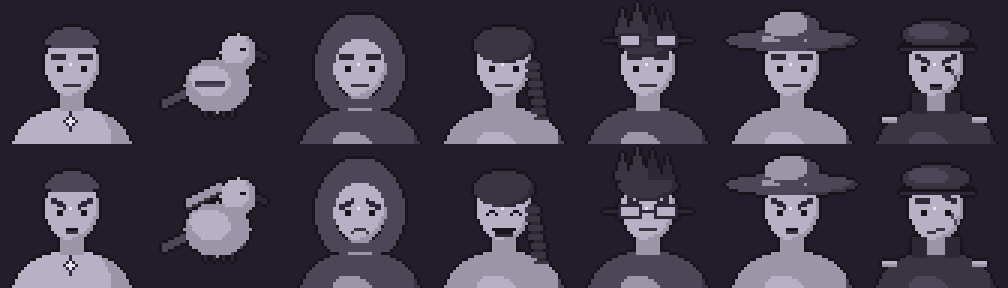
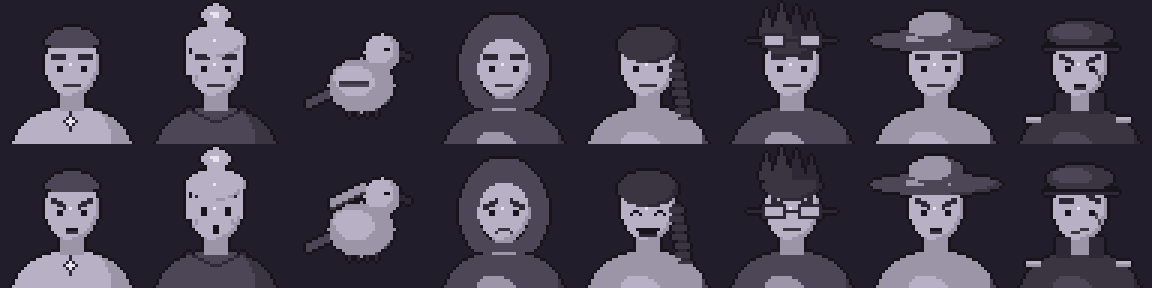
feat(dialogos): Yara en persona y por el ave (enmienda 1)

diff --git a/tools/gen_portraits.py b/tools/gen_portraits.py
@@ -2,14 +2,15 @@
 docs/ux/anexos/2026-10-28-dialogos.md, §3).
 
 Busto de frente, 48×48, sobre fondo ASH_900 (la ventana del retrato dentro del
-panel). Siete voces y **dos expresiones** cada una: la neutra y la que define
+panel). Ocho retratos de siete voces (Yara en persona y por el ave) y **dos expresiones** cada una: la neutra y la que define
 su arco. Como los sprites del grupo, **todo en la rampa de ceniza**: el verde
 es de la purificación y la brasa del daño activo. Lo que distingue a cada uno
 es la **silueta** (lo mismo que en su sprite de combate: capucha, trenza,
 gafas, sombrero) y el valor.
 
     ilan   pelo corto y el Fragmento al cuello · neutral / determinado
-    yara   el ave mensajera (Yara habla por ella) · neutral / alerta
+    yara      en persona: moño, pelo claro, arrugas y chal · neutral / alerta
+    yara_ave  el ave mensajera, cuando habla de lejos · neutral / alerta
     bruma  capucha · neutral / dolida (perdió su hogar en un incendio)
     coral  trenza sobre el hombro · neutral / risa (el alivio cómico)
     nix    pelo revuelto en punta y gafas de taller · neutral / concentrado (gafas puestas)
@@ -74,7 +75,7 @@ def face(c: Canvas, mood: str) -> None:
             c.set(ex, EYE_Y, ink)
             c.set(ex + 1, EYE_Y, ink)
             c.set(ex + 2, EYE_Y + 1, ink)
-        elif mood == "wide":
+        elif mood in ("wide", "alert"):
             for dy in (-1, 0, 1):
                 c.set(ex, EYE_Y + dy, ink)
                 c.set(ex + 1, EYE_Y + dy, ink)
@@ -95,6 +96,8 @@ def face(c: Canvas, mood: str) -> None:
                 y = EYE_Y - 4 - (i // 2 if side > 0 else 0)
             elif mood == "laugh":
                 y = EYE_Y - 4 - (1 if 0 < i < 4 else 0)
+            elif mood == "alert":
+                y = EYE_Y - 6 - (1 if 0 < i < 4 else 0)
             else:
                 y = EYE_Y - 4
             c.set(x, y, brow)
@@ -108,6 +111,12 @@ def face(c: Canvas, mood: str) -> None:
         for x in range(int(CX) - 2, int(CX) + 4):
             c.set(x, my + 1, ink)
             c.set(x, my + 2, color("ash_800"))
+    elif mood == "alert":
+        # Boca entreabierta de sorpresa.
+        for x in range(int(CX), int(CX) + 2):
+            c.set(x, my - 1, ink)
+            c.set(x, my, ink)
+            c.set(x, my + 1, ink)
     elif mood == "frown":
         # Labios apretados: línea corta y gruesa.
         for x in range(int(CX) - 1, int(CX) + 3):
@@ -157,8 +166,31 @@ def ilan(mood: str) -> Canvas:
 
 
 def yara(mood: str) -> Canvas:
-    """El ave mensajera: cuerpo redondo de perfil, pico y cola. Alerta: alas
-    abiertas."""
+    """Yara en persona (enmienda 1, Diego 2026-10-28): anciana, pelo claro
+    recogido en moño, arrugas y chal. Alerta: los ojos muy abiertos."""
+    c = Canvas(SIZE, SIZE)
+    shawl = ["ash_700", "ash_600", "ash_400"]
+    shoulders(c, shawl)
+    face(c, "alert" if mood == "arc" else "neutral")
+    hair = ["ash_400", "ash_200", "ash_050"]
+    fill_ellipse(c, CX, 13.0, 9.8, 5.2, hair, base=0.40)       # pelo recogido
+    fill_ellipse(c, CX, 4.5, 4.6, 3.6, hair, base=0.46)        # moño
+    for side in (-1, 1):                                       # mechones a los lados
+        for y in range(14, 25):
+            c.set(int(CX) + side * 9, y, color("ash_200"))
+    for side in (-1, 1):                                       # arrugas
+        for i in range(3):
+            c.set(int(CX) + side * (6 + i // 2), 25 + i, color("ash_400"))
+    # El chal cruzado sobre el pecho.
+    for i in range(10):
+        c.set(int(CX) - 9 + i, 36 + i // 2, color("ash_800"))
+        c.set(int(CX) + 10 - i, 36 + i // 2, color("ash_800"))
+    return finish(c)
+
+
+def yara_ave(mood: str) -> Canvas:
+    """El ave mensajera, por la que Yara habla de lejos: cuerpo redondo de
+    perfil, pico y cola. Alerta: alas abiertas."""
     c = Canvas(SIZE, SIZE)
     body = ["ash_600", "ash_400", "ash_200", "ash_050"]
     fill_ellipse(c, 24, 28, 11, 9, body, base=0.36)
@@ -280,9 +312,10 @@ def rasgo(mood: str) -> Canvas:
     return finish(c)
 
 
-VOICES = {"ilan": ilan, "yara": yara, "bruma": bruma, "coral": coral, "nix": nix,
+VOICES = {"ilan": ilan, "yara": yara, "yara_ave": yara_ave, "bruma": bruma, "coral": coral, "nix": nix,
           "suri": suri, "rasgo": rasgo}
 MOODS = {"ilan": ("neutral", "determinado"), "yara": ("neutral", "alerta"),
+         "yara_ave": ("neutral", "alerta"),
          "bruma": ("neutral", "dolida"), "coral": ("neutral", "risa"),
          "nix": ("neutral", "concentrado"), "suri": ("neutral", "firme"),
          "rasgo": ("neutral", "duda")}

diff --git a/tools/verify_portraits.py b/tools/verify_portraits.py
@@ -2,7 +2,7 @@
 
     python tools/verify_portraits.py
 
-- Siete voces × dos expresiones, todas de 48×48.
+- Ocho retratos (Yara en persona y por el ave) × dos expresiones, de 48×48.
 - Todo píxel es un token de la paleta.
 - **Cada voz se distingue por la silueta**: entre dos voces cualesquiera, el
   solape de sus siluetas (lo que no es fondo ASH_900) es ≤ SILHOUETTE_MAX.
@@ -23,7 +23,7 @@ sys.path.insert(0, str(Path(__file__).resolve().parent))
 from pixel import PALETTE  # noqa: E402
 
 DIR = Path(__file__).resolve().parents[1] / "assets" / "sprites" / "portraits"
-VOICES = {"ilan": "determinado", "yara": "alerta", "bruma": "dolida", "coral": "risa",
+VOICES = {"ilan": "determinado", "yara": "alerta", "yara_ave": "alerta", "bruma": "dolida", "coral": "risa",
           "nix": "concentrado", "suri": "firme", "rasgo": "duda"}
 SILHOUETTE_MAX = 0.90
 EXPRESSION_MIN = 12
@@ -73,7 +73,7 @@ def main() -> int:
             iou = len(m1 & m2) / len(m1 | m2)
             if iou > worst[2]:
                 worst = (names[i], names[j], iou)
-    check(f"las siete siluetas se distinguen: el par más parecido, {worst[0]} y {worst[1]}, "
+    check(f"las {len(names)} siluetas se distinguen: el par más parecido, {worst[0]} y {worst[1]}, "
           f"solapa {worst[2]:.2f} (tope {SILHOUETTE_MAX})", worst[2] <= SILHOUETTE_MAX)
     ratio = (lum(PALETTE["ash_200"]) + 0.05) / (lum(PALETTE["ash_950"]) + 0.05)
     check(f"ojos sobre la piel: {ratio:.1f}:1 (≥ 3)", ratio >= 3.0)

diff --git a/docs/ux/anexos/2026-10-28-dialogos.md b/docs/ux/anexos/2026-10-28-dialogos.md
@@ -411,3 +411,29 @@ Diego aprobó el paso 3 el 2026-10-28.
 **Incoherencia que se le lleva a Diego:** en Valdehoja, Yara está en persona,
 pero su retrato es el ave mensajera. El contrato §3 dice «Yara (el ave)»
 porque en la guía habla de lejos. Cara a cara, lo esperable es su rostro.
+
+### Enmienda 1 — dos retratos de Yara, autorizada por Diego el 2026-10-28
+
+- **`yara`** es Yara **en persona**: anciana, pelo claro recogido en moño,
+  mechones, arrugas y chal. Habla así cara a cara en Valdehoja.
+- **`yara_ave`** es **el ave mensajera**, por la que habla de lejos en las
+  regiones.
+- Las dos llevan dos expresiones (neutral y alerta) y el mismo nombre en la
+  caja. `voices.json` las distingue por id.
+- **Un fallo, y se dice:** el primer «alerta» del rostro solo cambiaba 4
+  píxeles (los ojos), y `verify_portraits` lo paró. Ahora alza las cejas, abre
+  los ojos y entreabre la boca: 34 píxeles.
+- **Medido:**
+  - `verify_portraits`: 16 retratos, todo en verde; las **8 siluetas** se
+    distinguen (el par más parecido sigue siendo Ilan y Coral, 0,88);
+  - `verify_talk` 5/5;
+  - `verify_dialogue_box` 19/19;
+  - `verify_dialogue` en verde.
+- **Capturas actualizadas:** `2026-10-28-retratos.png` (los 16) y
+  `2026-10-28-dialogo-mundo-yara.png`, con su rostro.
+
+**Siguiente:** paso 5, los estados:
+
+- el nombre de Rasgo pasa de brasa a ceniza según su bandera;
+- el ave en una conversación a distancia;
+- movimiento reducido y máquina apagada, con capturas.
